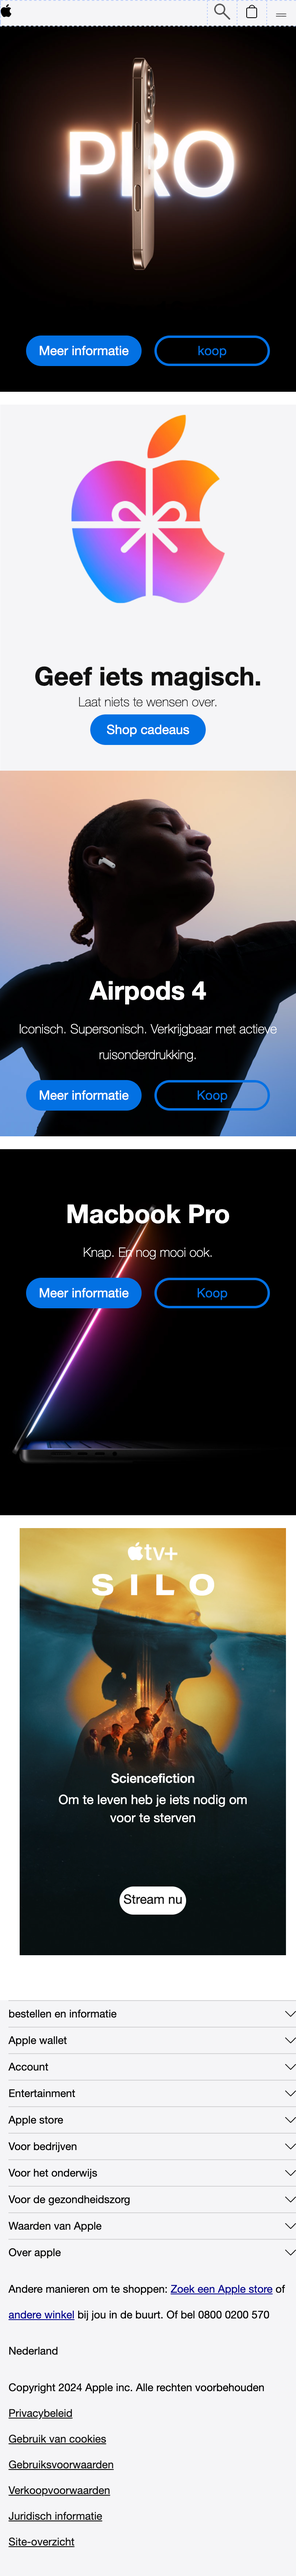
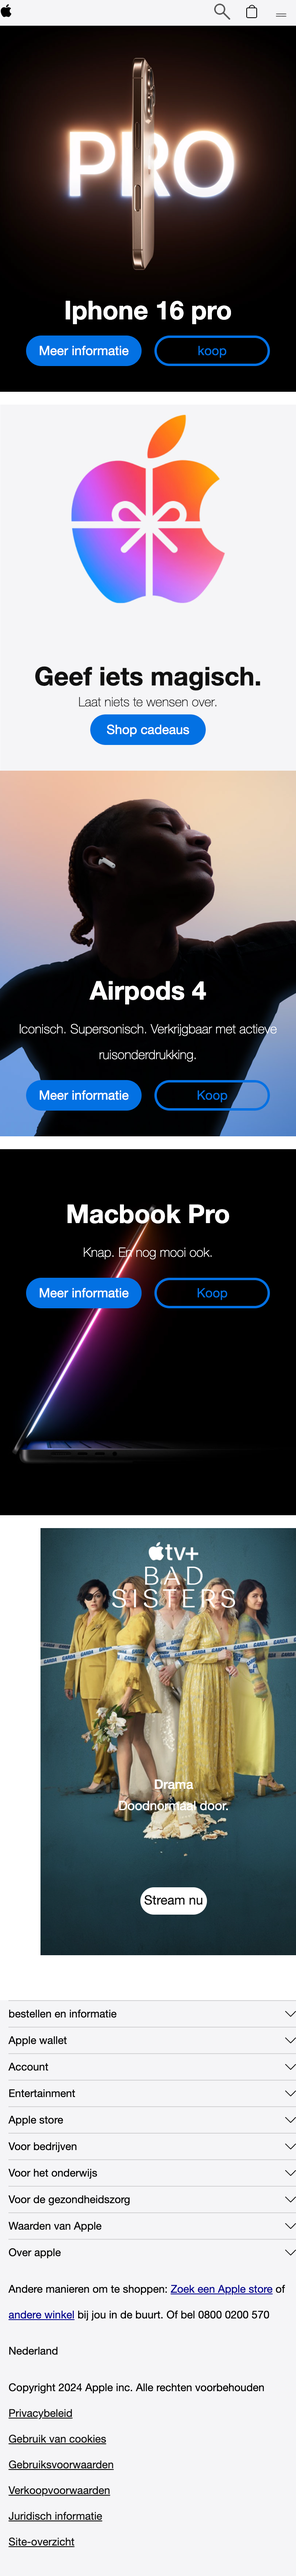
laatste

diff --git a/styles/firstpage.css b/styles/firstpage.css
@@ -200,7 +200,7 @@ main section:nth-of-type(1) img {
 main section:nth-of-type(1) h2 {
     grid-row: 1/2;
     grid-column: 1/3;
-    color: var(--wit);
+    color: var(--color-text2);
     align-self: end;
 }
 
